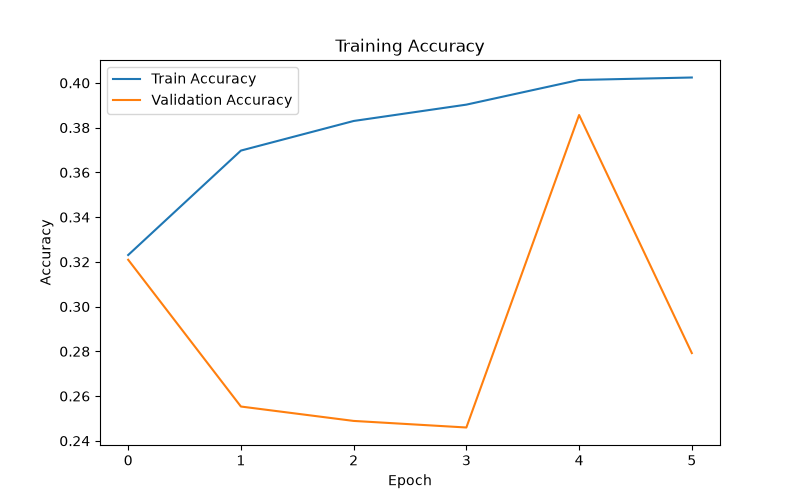
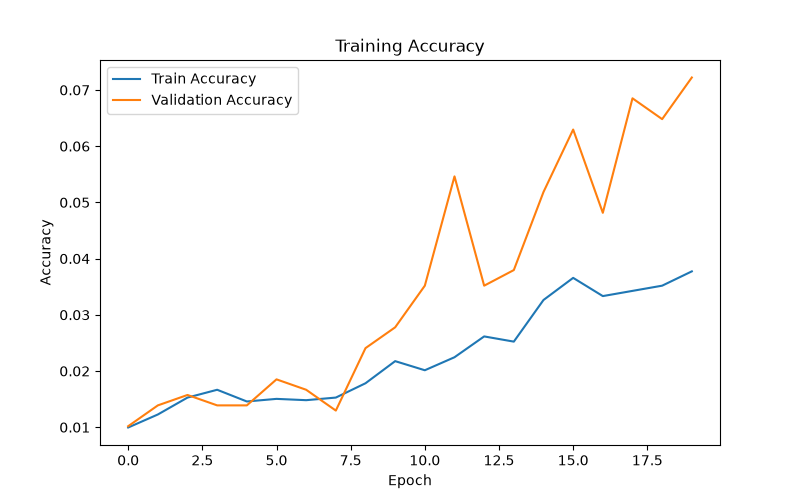
Change project to animal classification

diff --git a/model-training/config.py b/model-training/config.py
@@ -64,4 +64,5 @@ LOSS_GRAPH = os.path.join(
 # Classes
 # =====================
 
-NUM_CLASSES = 4
+NUM_CLASSES = 90
+
